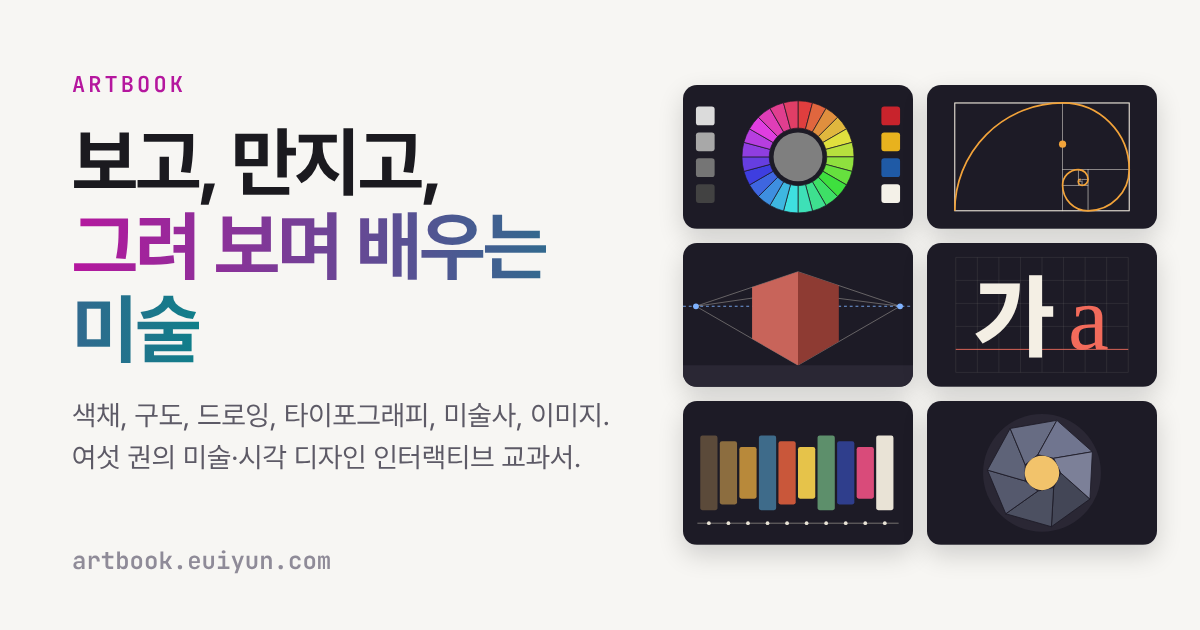
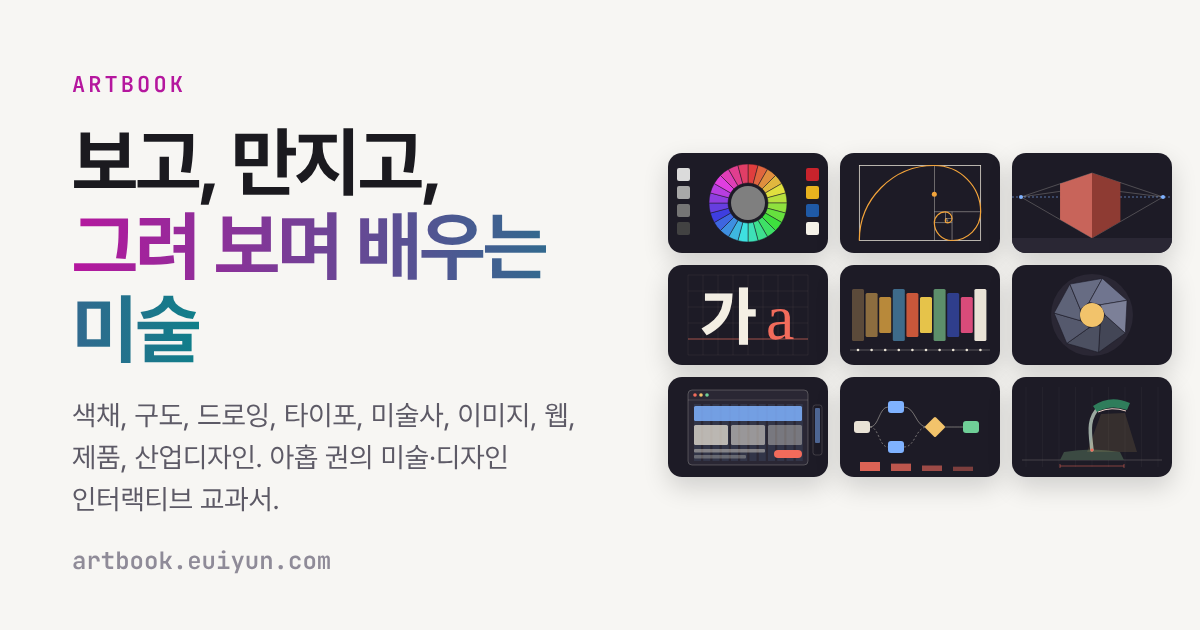
Publish WebBook, ProductBook, IndustrialBook: shelf complete with nine books
Claude-Session: https://claude.ai/code/session_01Pa4HJ22Jeo2bAw4Riya9TG

Changed region(s): [[0.555, 0.1206, 0.9867, 0.8746], [0.0617, 0.6333, 0.4933, 0.8143]]

diff --git a/index.html b/index.html
@@ -21,7 +21,7 @@
 <meta property="og:image:width" content="1200">
 <meta property="og:image:height" content="630">
 <meta name="twitter:card" content="summary_large_image">
-<script type="application/ld+json">{"@context":"https://schema.org","@graph":[{"@type":"WebSite","@id":"https://artbook.euiyun.com/#site","name":"ArtBook","alternateName":"아트북","url":"https://artbook.euiyun.com/","inLanguage":"ko","description":"보고, 만지고, 그려 보며 배우는 미술·시각 디자인 교과서 서가"},{"@type":"BookSeries","@id":"https://artbook.euiyun.com/#series","name":"ArtBook","url":"https://artbook.euiyun.com/","inLanguage":"ko","isAccessibleForFree":true,"about":["색채","구도","드로잉","타이포그래피","미술사","사진"],"hasPart":[{"@type":"Book","name":"ColorBook · 색채","url":"https://artbook.euiyun.com/color/"},{"@type":"Book","name":"CompositionBook · 형태와 구도","url":"https://artbook.euiyun.com/composition/"},{"@type":"Book","name":"DrawingBook · 드로잉","url":"https://artbook.euiyun.com/drawing/"},{"@type":"Book","name":"TypeBook · 타이포그래피","url":"https://artbook.euiyun.com/type/"},{"@type":"Book","name":"ArtHistoryBook · 미술사","url":"https://artbook.euiyun.com/history/"},{"@type":"Book","name":"ImageBook · 사진과 이미지","url":"https://artbook.euiyun.com/image/"}]}]}</script>
+<script type="application/ld+json">{"@context":"https://schema.org","@graph":[{"@type":"WebSite","@id":"https://artbook.euiyun.com/#site","name":"ArtBook","alternateName":"아트북","url":"https://artbook.euiyun.com/","inLanguage":"ko","description":"보고, 만지고, 그려 보며 배우는 미술·시각 디자인 교과서 서가"},{"@type":"BookSeries","@id":"https://artbook.euiyun.com/#series","name":"ArtBook","url":"https://artbook.euiyun.com/","inLanguage":"ko","isAccessibleForFree":true,"about":["색채","구도","드로잉","타이포그래피","미술사","사진"],"hasPart":[{"@type":"Book","name":"ColorBook · 색채","url":"https://artbook.euiyun.com/color/"},{"@type":"Book","name":"CompositionBook · 형태와 구도","url":"https://artbook.euiyun.com/composition/"},{"@type":"Book","name":"DrawingBook · 드로잉","url":"https://artbook.euiyun.com/drawing/"},{"@type":"Book","name":"TypeBook · 타이포그래피","url":"https://artbook.euiyun.com/type/"},{"@type":"Book","name":"ArtHistoryBook · 미술사","url":"https://artbook.euiyun.com/history/"},{"@type":"Book","name":"ImageBook · 사진과 이미지","url":"https://artbook.euiyun.com/image/"},{"@type":"Book","name":"WebBook · 웹 디자인","url":"https://artbook.euiyun.com/web/"},{"@type":"Book","name":"ProductBook · 제품 디자인","url":"https://artbook.euiyun.com/product/"},{"@type":"Book","name":"IndustrialBook · 산업디자인","url":"https://artbook.euiyun.com/industrial/"}]}]}</script>
 <link rel="stylesheet" href="shared/css/style.css">
 <script src="shared/js/shelf.js"></script>
 <script src="shared/js/art.js"></script>
@@ -55,7 +55,7 @@
       <h1>보고, 만지고,<br><span class="grad">그려 보며 배우는 미술</span></h1>
       <p>색은 왜 옆에 놓인 색에 따라 달라 보일까. 좋은 구도에는 공식이 있을까. 원근은 어떻게 화면 위에 공간을 만들까. 이 서가의 교과서들은 미술과 시각 디자인의 원리를 <strong>직접 끌고, 섞고, 나란히 놓아 비교하며</strong> 배운다. 화면 실습에서 끝나지 않고 장마다 종이와 연필, 물감으로 해 볼 과제를 둔다.</p>
       <p style="font-size:16px">여기서 "디자인"은 공학 설계가 아니라 미술과 시각 디자인(색, 형태, 구도, 드로잉, 타이포그래피, 미술사)을 말한다.</p>
-      <div class="hero-badges"><span>6권 완간</span><span>색채 · 구도 · 드로잉 · 타이포 · 미술사 · 이미지</span><span>공공 도메인 작품 이미지</span><span>흑백 보기 · 전/후 비교</span></div>
+      <div class="hero-badges"><span>9권 완간</span><span>미술 6권 · 디자인 3권</span><span>공공 도메인 작품 이미지</span><span>흑백 보기 · 전/후 비교</span></div>
     </div>
     <div class="hero-mix" id="hero">
       <canvas id="hero-cv" class="art"></canvas>

diff --git a/tools/og.html b/tools/og.html
@@ -15,8 +15,8 @@
   .url { position: absolute; left: 72px; bottom: 54px; font: 600 24px var(--mono); color: #8f8b98; }
   .art { display: grid; place-items: center; }
   .art svg { width: 520px; height: auto; border-radius: 24px; box-shadow: 0 20px 50px rgba(0,0,0,.18); }
-  .grid { display: grid; grid-template-columns: repeat(2, 230px); gap: 14px; }
-  .grid svg { width: 230px; border-radius: 14px; box-shadow: 0 10px 26px rgba(0,0,0,.16); }
+  .grid { display: grid; grid-template-columns: repeat(3, 160px); gap: 12px; }
+  .grid svg { width: 160px; border-radius: 14px; box-shadow: 0 10px 26px rgba(0,0,0,.16); }
 </style></head>
 <body><div class="og" id="og"></div>
 <script>
@@ -36,6 +36,6 @@
   if (bk) {
     el.innerHTML = '<div class="txt"><div class="ey">ARTBOOK ' + bk[0] + ' · ' + bk[1] + '</div><h1>' + bk[2] + '</h1><p>' + bk[3] + '</p></div><div class="art">' + AB_COVERS[bk[4]]() + '</div><div class="url">artbook.euiyun.com/' + page + '</div>';
   } else {
-    el.innerHTML = '<div class="txt"><div class="ey">ARTBOOK</div><h1>보고, 만지고,<br><span>그려 보며 배우는 미술</span></h1><p>색채, 구도, 드로잉, 타이포그래피, 미술사, 이미지. 여섯 권의 미술·시각 디자인 인터랙티브 교과서.</p></div><div class="art"><div class="grid">' + ["wheel", "spiral", "perspective", "glyph", "timeline", "aperture"].map(function (m) { return AB_COVERS[m](); }).join("") + '</div></div><div class="url">artbook.euiyun.com</div>';
+    el.innerHTML = '<div class="txt"><div class="ey">ARTBOOK</div><h1>보고, 만지고,<br><span>그려 보며 배우는 미술</span></h1><p>색채, 구도, 드로잉, 타이포, 미술사, 이미지, 웹, 제품, 산업디자인. 아홉 권의 미술·디자인 인터랙티브 교과서.</p></div><div class="art"><div class="grid">' + ["wheel", "spiral", "perspective", "glyph", "timeline", "aperture", "browser", "flow", "form"].map(function (m) { return AB_COVERS[m](); }).join("") + '</div></div><div class="url">artbook.euiyun.com</div>';
   }
 </script></body></html>

diff --git a/README.md b/README.md
@@ -13,6 +13,9 @@
 | 4 | [/type/](https://artbook.euiyun.com/type/) | TypeBook — 타이포그래피 | 글자의 구조, 한글 타이포, 자간·행간, 위계, 그리드 | 출간 (14장, 시뮬레이터 88개) |
 | 5 | [/history/](https://artbook.euiyun.com/history/) | ArtHistoryBook — 미술사 | 사조의 흐름을 색·구도·기법의 변화로 읽기 | 출간 (14장, 시뮬레이터 85개) |
 | 6 | [/image/](https://artbook.euiyun.com/image/) | ImageBook — 사진과 이미지 | 노출, 렌즈와 원근, 색 보정, 디지털 이미지의 구조 | 출간 (14장, 시뮬레이터 86개) |
+| 7 | [/web/](https://artbook.euiyun.com/web/) | WebBook — 웹 디자인 | 뷰포트, 박스와 간격, 그리드, 반응형, 토큰, 컴포넌트, 폼, 접근성, 성능 | 출간 (14장, 시뮬레이터 87개) |
+| 8 | [/product/](https://artbook.euiyun.com/product/) | ProductBook — 제품 디자인 | 사용자 조사, 정보 구조, 흐름, 프로토타입, 사용성 테스트, A/B, UX 라이팅 | 출간 (14장, 시뮬레이터 84개) |
+| 9 | [/industrial/](https://artbook.euiyun.com/industrial/) | IndustrialBook — 산업디자인 | 스케치, 곡면, 비례, 인간공학, 재료, 사출 성형, 조립, CMF, 지속가능성 | 출간 (14장, 시뮬레이터 82개) |
 
 ## ColorBook — 색채
 
@@ -146,6 +149,69 @@
 | 12 | image/chapters/history.html | 쓰임 | 사진의 역사: 카메라 옵스큐라에서 다게레오타입, 습판, 필름, 디지털까지. 공공 도메인 사진으로 보는 매체의 변화. |
 | 13 | image/chapters/lab.html | — | 이미지 실험실: 사진 한 장의 히스토그램, 노출, 화이트 밸런스, 커브, 크롭, 압축을 한꺼번에 조정하고 비교하는 종합 도구. |
 | 14 | image/chapters/glossary.html | — | 용어집 & 종합 퀴즈: 사진·이미지 용어 검색, 종합 퀴즈, 촬영 노트 색인, 이미지 크레딧. |
+
+## WebBook — 웹 디자인
+
+웹은 크기를 정할 수 없는 캔버스다. 뷰포트와 박스, 그리드, 반응형, 디자인 토큰, 컴포넌트와 상태, 내비게이션, 폼, 모션, 접근성, 성능까지 창 폭을 끌고 상태를 바꿔 보며 배웁니다. 책 전체가 서윤이 책방 E 웹사이트를 다시 짜는 과정을 따라갑니다.
+
+| 장 | 파일 | 부 | 주제 |
+|---|---|---|---|
+| 01 | web/chapters/overview.html | — | 웹 디자인의 지도: 웹은 크기를 정할 수 없는 캔버스다. 화면, 배치, 상호작용, 쓰임의 네 갈래와 서윤의 웹 개편 노트. |
+| 02 | web/chapters/viewport.html | 화면 | 브라우저라는 캔버스: 뷰포트와 CSS 픽셀, 기기 픽셀 비율, 화면 크기의 다양성, 확대와 글자 크기 설정, 접힘선 통설. |
+| 03 | web/chapters/box.html | 화면 | 박스와 간격: 모든 요소는 상자다. 박스 모델, 여백과 패딩, 마진 상쇄, 4·8 간격 체계, 간격으로 묶고 떼기. |
+| 04 | web/chapters/grid.html | 배치 | 레이아웃 그리드: 단·거터·바깥 여백, 12단 그리드, fr 단위, 플렉스박스와 그리드의 차이, 그리드를 깨는 요소. |
+| 05 | web/chapters/responsive.html | 배치 | 반응형: 유동 레이아웃, 중단점은 콘텐츠가 정한다, clamp()와 유동 크기, 컨테이너 쿼리, 반응형 이미지. |
+| 06 | web/chapters/tokens.html | 배치 | 색과 글자의 체계: 디자인 토큰, 웹 팔레트와 의미 색, 다크 모드, rem과 글자 크기 단계, 한 곳을 바꾸면 전체가 바뀌는 구조. |
+| 07 | web/chapters/components.html | 상호작용 | 컴포넌트와 상태: 버튼·링크·입력·카드. 기본·호버·포커스·눌림·비활성 상태, 터치 타깃 크기와 피츠의 법칙. |
+| 08 | web/chapters/navigation.html | 상호작용 | 내비게이션: 메뉴 패턴, 숨긴 메뉴의 대가, 현재 위치 표시, 빵부스러기와 검색. 길을 잃지 않게 하는 화면. |
+| 09 | web/chapters/forms.html | 상호작용 | 폼: 라벨과 자리표시자, 입력 칸의 길이와 형식, 오류 메시지의 위치와 시점, 단계 나누기. |
+| 10 | web/chapters/motion.html | 상호작용 | 모션: 이징 곡선과 지속 시간, 전환이 알려 주는 것, 과한 움직임과 줄인 움직임 선호. |
+| 11 | web/chapters/access.html | 쓰임 | 웹 접근성: 의미 있는 HTML, 키보드와 포커스, 대체 텍스트, 대비와 확대. WCAG 2.2와 한국형 웹 콘텐츠 접근성 지침. |
+| 12 | web/chapters/performance.html | 쓰임 | 속도도 디자인이다: 이미지와 웹폰트 용량, 레이아웃 이동, 가장 큰 콘텐츠가 그려지는 시간, 스켈레톤과 체감 속도. |
+| 13 | web/chapters/lab.html | — | 웹 실험실: 페이지 하나를 창 폭, 그리드, 토큰, 대비, 터치 타깃, 용량으로 한꺼번에 점검하고 조정하는 종합 도구. |
+| 14 | web/chapters/glossary.html | — | 용어집 & 종합 퀴즈: 웹 디자인 용어 검색, 종합 퀴즈, 웹 개편 노트 색인. |
+
+## ProductBook — 제품 디자인
+
+화면을 그리기 전에 문제를 고른다. 사용자 조사와 문제 정의에서 시작해 정보 구조, 흐름, 상호작용, 프로토타입, 사용성 테스트, 지표와 A/B 테스트, UX 라이팅, 디자인 시스템, 윤리까지 묻고 그리고 시험해 보며 배웁니다. 책 전체가 책방 E의 책 맡아 두기 서비스를 만드는 과정을 따라갑니다.
+
+| 장 | 파일 | 부 | 주제 |
+|---|---|---|---|
+| 01 | product/chapters/overview.html | — | 제품 디자인의 지도: 화면을 그리기 전에 문제를 고른다. 이해, 구조, 검증, 운영의 네 갈래와 더블 다이아몬드, 서윤의 봄 서비스 노트. |
+| 02 | product/chapters/research.html | 이해 | 사용자 조사: 인터뷰와 관찰, 말과 행동의 차이, 유도 질문, 누구를 몇 명 만날 것인가. |
+| 03 | product/chapters/problem.html | 이해 | 문제 정의: 친화도 묶기, 페르소나의 쓰임과 함정, 사용자 여정 지도, 해야 할 일(JTBD), "어떻게 하면" 질문. |
+| 04 | product/chapters/ia.html | 구조 | 정보 구조: 카드 소팅과 트리 테스트, 넓고 얕게 대 좁고 깊게, 분류와 이름 붙이기. |
+| 05 | product/chapters/flow.html | 구조 | 사용자 흐름: 과업 흐름도, 단계 수와 이탈(퍼널), 행복한 경로와 예외 경로, 되돌리기. |
+| 06 | product/chapters/interaction.html | 구조 | 상호작용의 원리: 멘탈 모델, 기표와 피드백, 매핑, 제약. 힉의 법칙과 피츠의 법칙이 실제로 말하는 것. |
+| 07 | product/chapters/prototype.html | 검증 | 스케치와 프로토타입: 충실도의 선택, 종이 프로토타입, 와이어프레임, 무엇을 확인하려는 프로토타입인가. |
+| 08 | product/chapters/usability.html | 검증 | 사용성 테스트: 과업 설계, 생각 말하기, 성공률과 시간, SUS, 문제 발견 모형과 "다섯 명"의 근거. |
+| 09 | product/chapters/metrics.html | 검증 | 숫자로 확인하기: 지표 고르기, A/B 테스트, 표본 크기와 우연, 중간에 들여다보기의 함정. |
+| 10 | product/chapters/writing.html | 운영 | UX 라이팅: 버튼과 안내 문구, 오류 메시지, 빈 상태, 한국어의 높임과 어조. |
+| 11 | product/chapters/system.html | 운영 | 디자인 시스템: 토큰과 컴포넌트, 변형과 상태, 문서와 운영 규칙, 일관성과 예외. |
+| 12 | product/chapters/ethics.html | 운영 | 다크 패턴과 윤리: 속이는 설계의 유형, 동의와 개인정보, 포용적 설계, 지표가 사람을 해칠 때. |
+| 13 | product/chapters/lab.html | — | 제품 실험실: 흐름, 퍼널, 사용성 테스트, A/B 결과를 한 서비스 위에서 함께 조정하고 읽는 종합 도구. |
+| 14 | product/chapters/glossary.html | — | 용어집 & 종합 퀴즈: 제품 디자인 용어 검색, 종합 퀴즈, 서비스 노트 색인. |
+
+## IndustrialBook — 산업디자인
+
+물건은 손에서 완성된다. 스케치와 도면에서 시작해 형태와 곡면, 비례, 인간공학, 조작, 재료, 생산 공정, 조립, CMF, 지속가능성, 산업디자인의 역사까지 형태를 돌리고 손에 쥐어 보며 배웁니다. 책 전체가 책방 E 10주년 기념 클립형 독서등을 스케치에서 양산까지 따라갑니다.
+
+| 장 | 파일 | 부 | 주제 |
+|---|---|---|---|
+| 01 | industrial/chapters/overview.html | — | 산업디자인의 지도: 손에 쥐는 물건은 형태, 몸, 만들기, 쓰임이 만나는 자리다. 네 갈래와 서윤의 여름 제품 노트. |
+| 02 | industrial/chapters/sketch.html | 형태 | 제품 스케치와 도면: 투시 스케치, 단면선, 정투상 3면도, 치수. 머릿속 형태를 남이 읽을 수 있게 옮기는 법. |
+| 03 | industrial/chapters/form.html | 형태 | 형태와 곡면: 기본 입체의 조합, 모깎기 반경, 곡률 연속(G0·G1·G2), 반사 하이라이트로 곡면 읽기. |
+| 04 | industrial/chapters/proportion.html | 형태 | 비례와 안정: 제품의 비례, 시각적 무게와 실제 무게중심, 넘어지지 않는 조건, 디테일의 위계. |
+| 05 | industrial/chapters/ergonomics.html | 몸 | 인간공학과 인체 치수: 퍼센타일과 설계 범위, 손 크기와 잡기, 힘과 도달 거리. 평균의 사람은 없다. |
+| 06 | industrial/chapters/control.html | 몸 | 조작과 피드백: 버튼·노브·스위치·손잡이, 매핑, 클릭감과 소리, 실수를 막는 형태. |
+| 07 | industrial/chapters/materials.html | 만들기 | 재료: 플라스틱·금속·나무·유리·세라믹의 성질, 밀도와 강성, 굽힘과 두께, 재료 고르기 지도. |
+| 08 | industrial/chapters/process.html | 만들기 | 생산 공정: 사출 성형, 구배각, 고른 살두께, 언더컷, 판금과 절삭, 3D 프린팅. 수량이 공정을 정한다. |
+| 09 | industrial/chapters/assembly.html | 만들기 | 구조와 조립: 리브와 보스, 스냅핏, 나사와 접착, 공차와 틈, 조립 순서. |
+| 10 | industrial/chapters/cmf.html | 쓰임 | 색·재료·마감: CMF: 표면 질감과 광택, 반사, 도장·도금·아노다이징, 생산에서 색을 맞추는 일. |
+| 11 | industrial/chapters/sustain.html | 쓰임 | 수명과 지속가능성: 수리와 분해, 재료 줄이기, 재활용의 실제, 전과정평가(LCA)의 기초. |
+| 12 | industrial/chapters/history.html | 쓰임 | 산업디자인의 역사: 공예와 기계, 미술공예운동, 바우하우스, 유선형, 기능주의, 한국의 산업디자인. 공공 도메인 디자인 유물로 보는 흐름. |
+| 13 | industrial/chapters/lab.html | — | 제품 실험실: 한 제품의 형태, 비례, 인체 치수, 재료, 공정, 비용을 한꺼번에 조정하며 거래를 보는 종합 도구. |
+| 14 | industrial/chapters/glossary.html | — | 용어집 & 종합 퀴즈: 산업디자인 용어 검색, 종합 퀴즈, 제품 노트 색인, 이미지 크레딧. |
 
 ## 실행
 빌드 과정이 없는 정적 사이트입니다. 저장소 루트에서:
